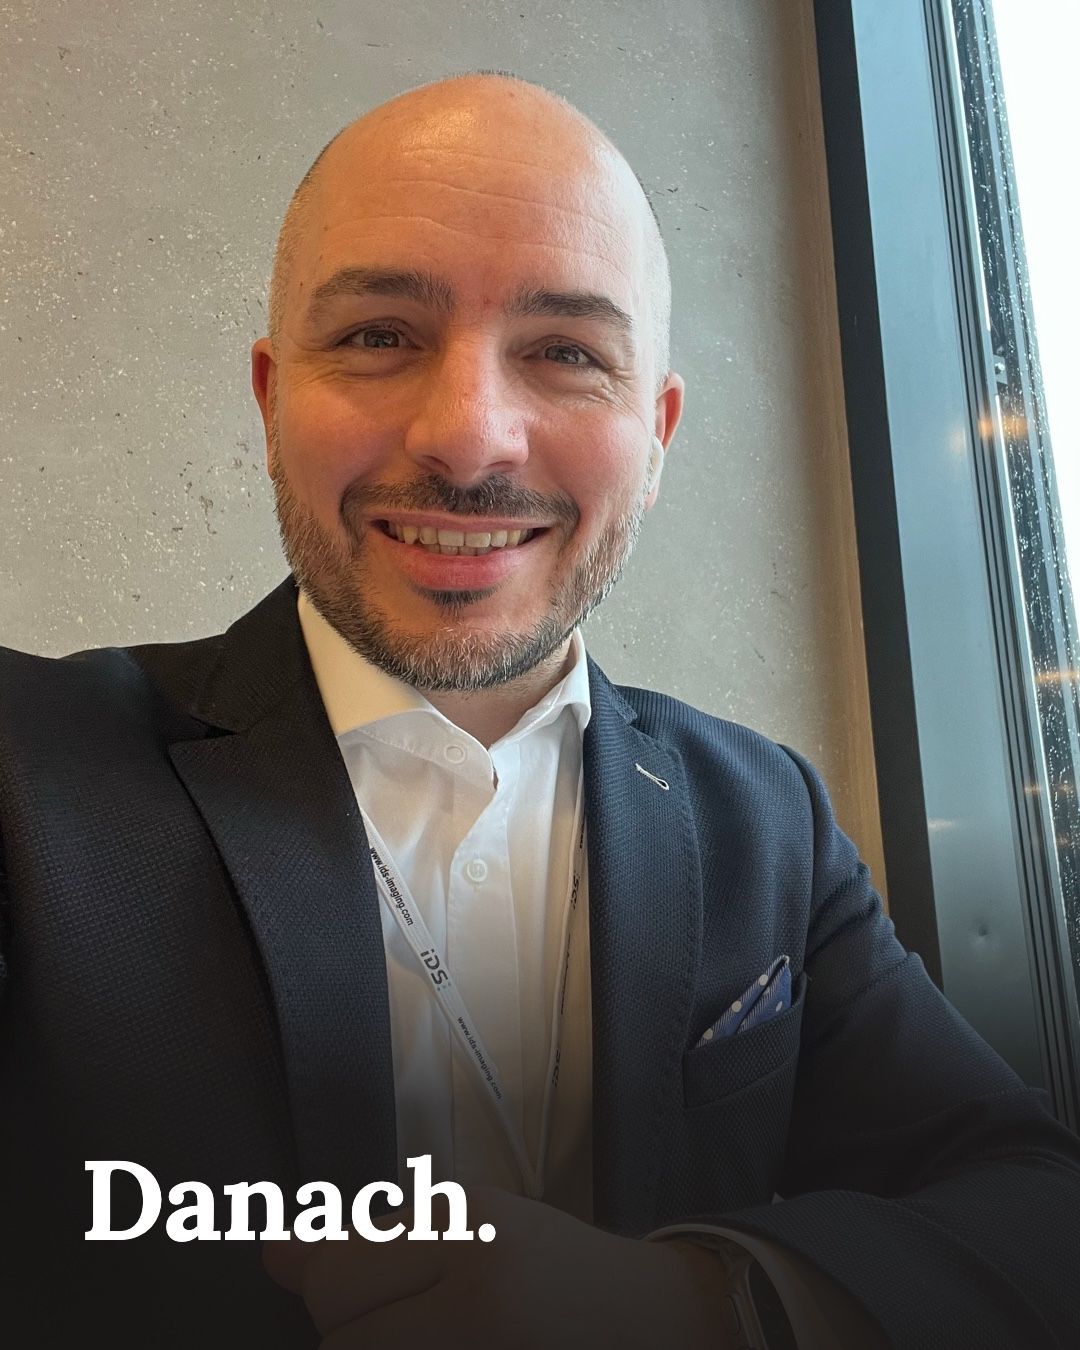
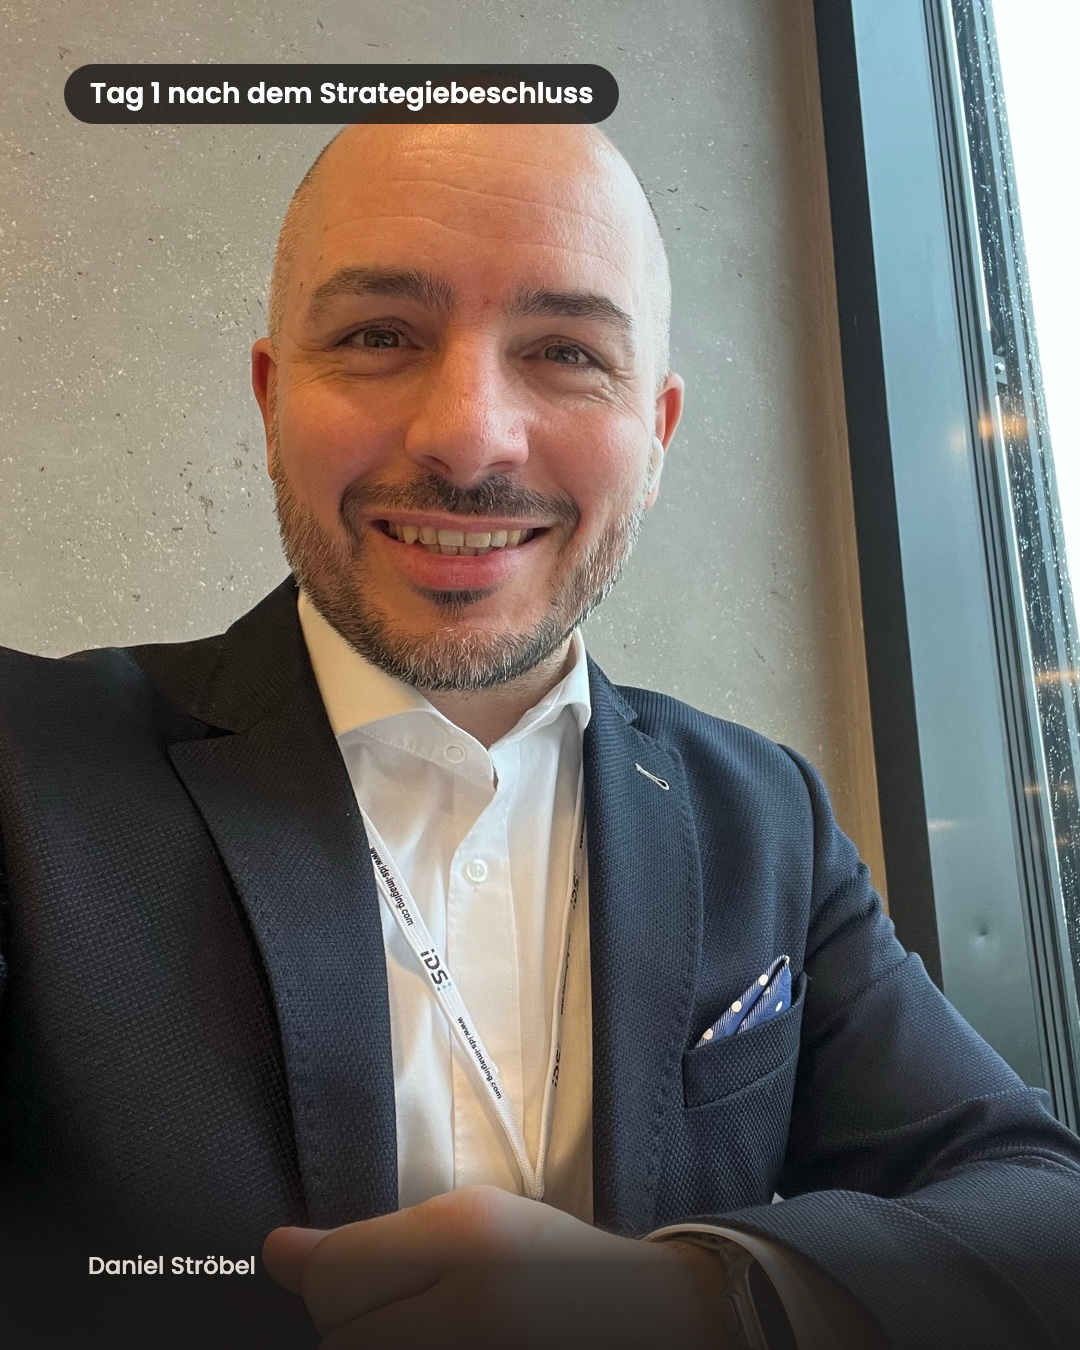
Posting 25.11.: Bild mit Chip „Tag 1 nach dem Strategiebeschluss“

Changed region(s): [[0.0611, 0.6222, 1.0, 0.9644], [0.0611, 0.0311, 0.5806, 0.0933]]

diff --git a/werkzeuge/medienkonzept/postings-vorlage.html b/werkzeuge/medienkonzept/postings-vorlage.html
@@ -1058,7 +1058,7 @@ html, body { width:1080px; background:#fff; }
 
 <section class="p vollbild" id="rp44"><img src="/assets/projekte/medienkonzept/foto-seminarraum-hemd.jpg" alt="" style="object-position:20% 50%;"><div class="verlauf" style="height:42%"></div><div class="unten"><p class="satz" style="font-size:66px">Manchmal sind 70 Prozent genau richtig.</p></div></section>
 
-<section class="p vollbild" id="rp45"><img src="/assets/projekte/medienkonzept/foto-fenster-anzug.jpg" alt="" style="object-position:40% 40%;"><div class="verlauf" style="height:40%"></div><div class="unten"><p class="satz" style="font-size:112px">Danach.</p></div></section>
+<section class="p vollbild" id="rp45"><img src="/assets/projekte/medienkonzept/foto-fenster-anzug.jpg" alt="" style="object-position:40% 40%;"><span class="chip">Tag 1 nach dem Strategiebeschluss</span><div class="verlauf" style="height:14%"></div><p class="namezeile" style="color:#d9d5cf">Daniel Ströbel</p></section>
 
 <section class="p vollbild" id="rp46"><img src="/assets/projekte/medienkonzept/foto-flipcharts.jpg" alt="" style="object-position:30% 50%;">
   <p style="position:absolute;left:430px;top:40px;width:620px;transform:rotate(-4deg);font:700 80px/1.02 Caveat,cursive;color:#1a1817">Wie fahren wir es<br>gegen die Wand?</p>

diff --git a/werkzeuge/medienkonzept/kw48_49_bilder.py b/werkzeuge/medienkonzept/kw48_49_bilder.py
@@ -40,7 +40,7 @@ def sektionen(NAME, vb, SYS):
 
     return [
         satz_unten("rp44", "foto-seminarraum-hemd.jpg", "20% 50%", "Manchmal sind 70 Prozent genau richtig."),  # 24.11. neues Thema (Daniel 20.11.2026: Strategieberater-Thema raus)
-        wort("rp45", "foto-fenster-anzug.jpg", "40% 40%", "Danach."),                        # 25.11. (146) Strategie in der Schublade
+        uhr("rp45", "foto-fenster-anzug.jpg", "40% 40%", "Tag 1 nach dem Strategiebeschluss"),  # Daniel 22.11.2026: „Danach.“ sinnbefreit                        # 25.11. (146) Strategie in der Schublade
         kritzel("rp46", "foto-flipcharts.jpg", "30% 50%", "Wie fahren wir es<br>gegen die Wand?", 430, 40, 620, groesse=80),  # 26.11. (147)
         pur("rp47", "foto-buero-flagge.jpg", "75% 40%"),  # foto-schreiben lief schon am 27.10.                         # 27.11. (148) drei Abende
         pur("rp48", "foto-sw-hoodie.jpg", "50% 30%"),                                        # 28.11. (149) bis Daniels Foto der gelben E-Gitarre kommt
